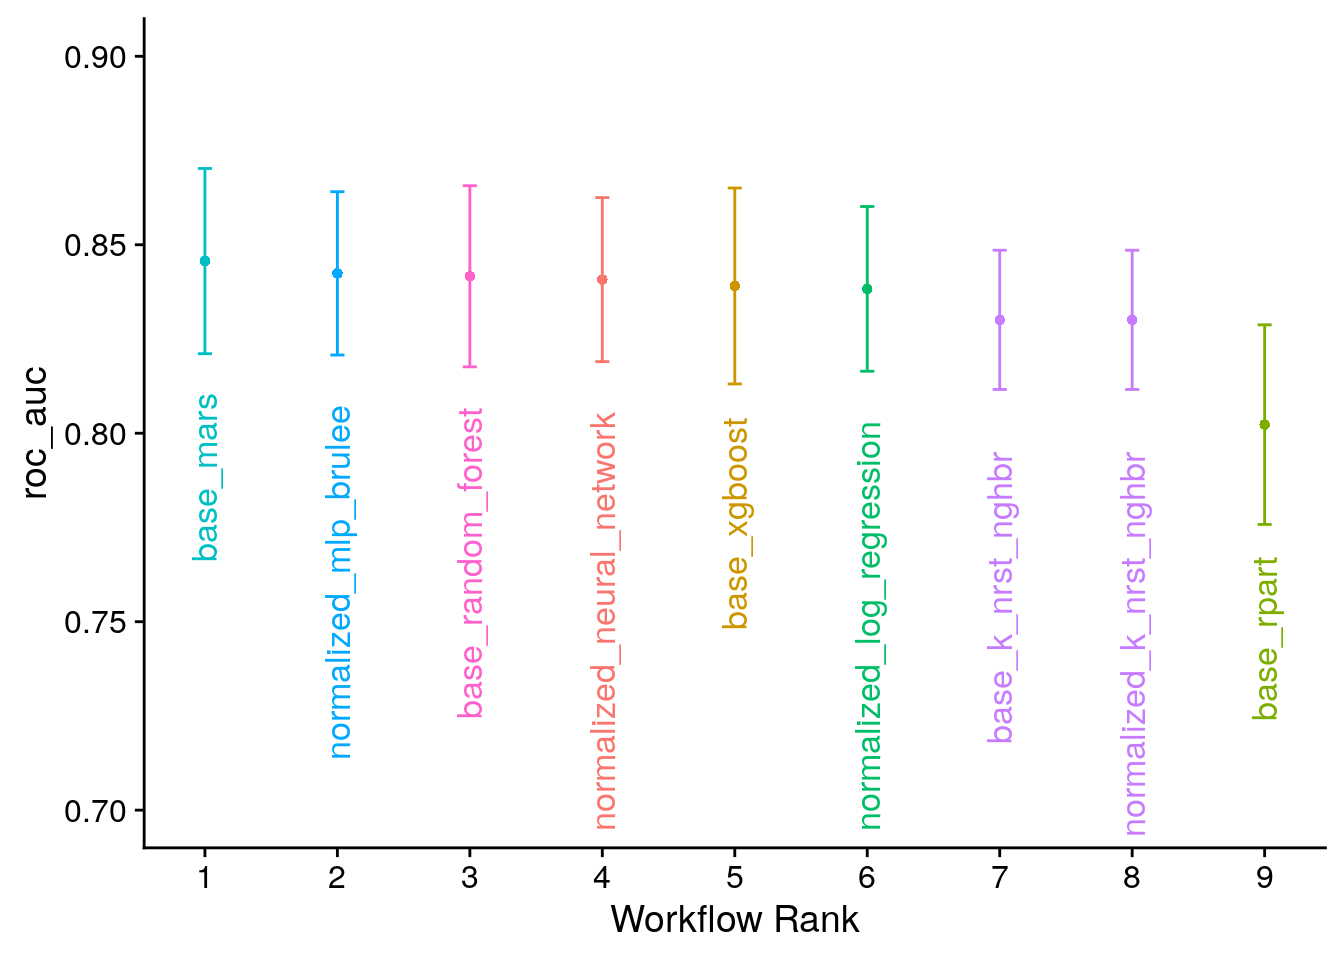
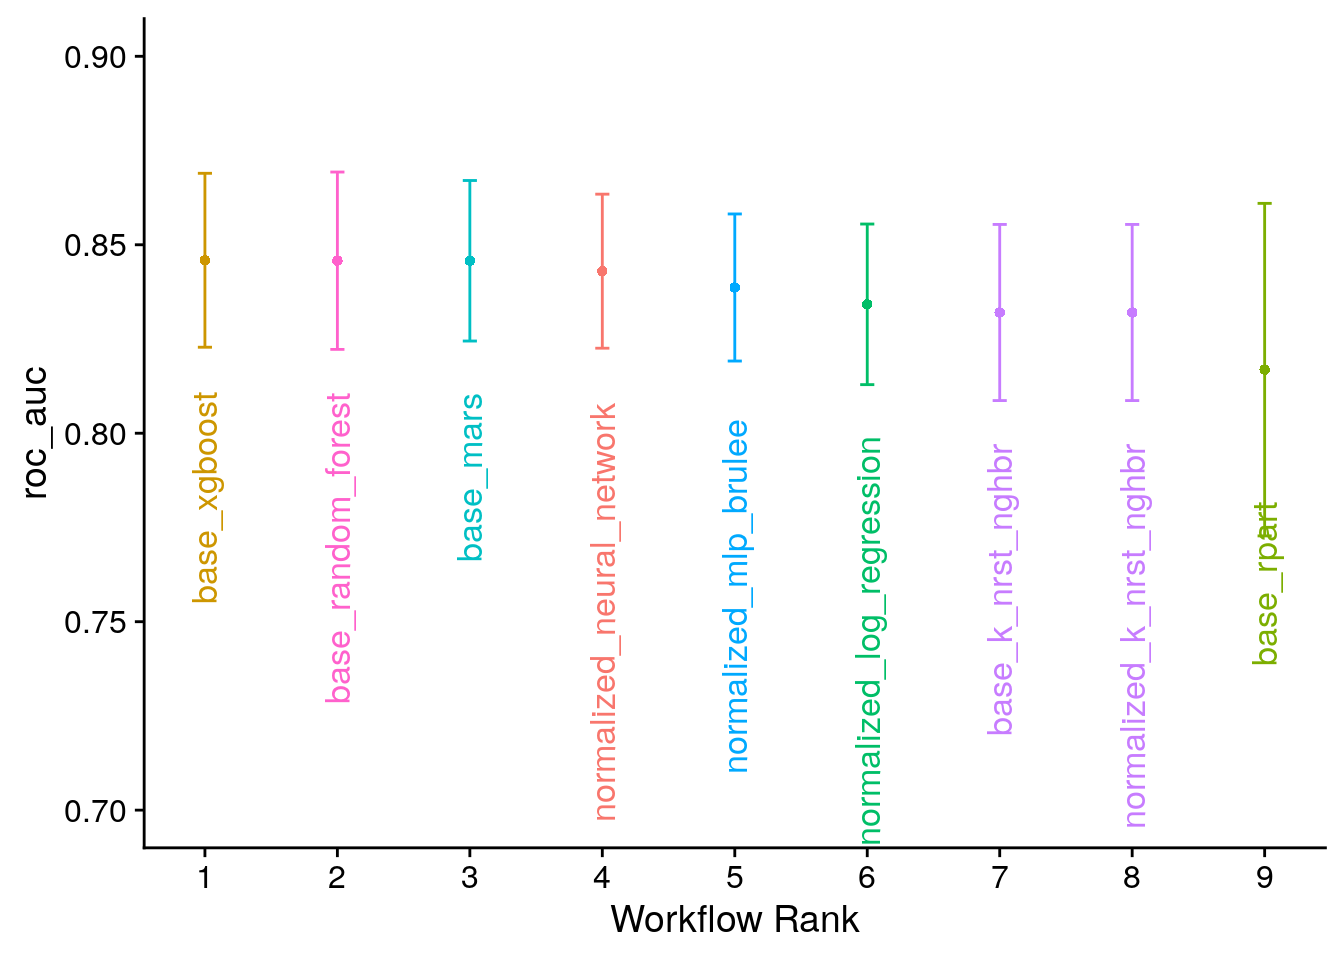
deploy: 8090718d2a788163073ff6967a6c2a0657854753

diff --git a/index.html b/index.html
@@ -134,7 +134,7 @@ window.Quarto = {
   <li><a href="#model-roc-curves" id="toc-model-roc-curves" class="nav-link" data-scroll-target="#model-roc-curves"><span class="header-section-number">7.4</span> Model ROC Curves</a></li>
   <li><a href="#models-ranked" id="toc-models-ranked" class="nav-link" data-scroll-target="#models-ranked"><span class="header-section-number">7.5</span> Models Ranked</a></li>
   <li><a href="#best-tuning-parameters-for-mars" id="toc-best-tuning-parameters-for-mars" class="nav-link" data-scroll-target="#best-tuning-parameters-for-mars"><span class="header-section-number">7.6</span> Best Tuning Parameters for MARS</a></li>
-  <li><a href="#mars-confusion-matrix" id="toc-mars-confusion-matrix" class="nav-link" data-scroll-target="#mars-confusion-matrix"><span class="header-section-number">7.7</span> MARS Confusion Matrix</a></li>
+  <li><a href="#random-forest-confusion-matrix" id="toc-random-forest-confusion-matrix" class="nav-link" data-scroll-target="#random-forest-confusion-matrix"><span class="header-section-number">7.7</span> Random Forest Confusion Matrix</a></li>
   </ul></li>
   <li><a href="#conclusion" id="toc-conclusion" class="nav-link" data-scroll-target="#conclusion"><span class="header-section-number">8</span> Conclusion</a></li>
   <li><a href="#appendix---raw-data" id="toc-appendix---raw-data" class="nav-link" data-scroll-target="#appendix---raw-data">Appendix - Raw Data</a></li>
@@ -176,8 +176,8 @@ window.Quarto = {
 <p>The workflow proceeds according to the chart below.</p>
 <div class="cell">
 <div class="cell-output-display">
-<div class="visNetwork html-widget html-fill-item" id="htmlwidget-b5eafbf948554ee8f588" style="width:100%;height:464px;"></div>
-<script type="application/json" data-for="htmlwidget-b5eafbf948554ee8f588">{"x":{"nodes":{"name":["best_model_results","downloaded_file_info","final_cm","model_results","model_test_results","pima_data","pima_data_url","pima_folds","pima_imputed","pima_raw","pima_raw_converted","pima_raw_ol_to_na","pima_split","pima_test","pima_train","plot_conf_matrix","plot_imputed_corr","plot_imputed_missing","plot_imputed_outliers","plot_model_results","plot_raw_missing","plot_raw_outliers","plot_ROC_curve","plot_tuning_grid","tbl_imputed_summary_0","tbl_imputed_summary_1","tbl_model_results","tbl_raw_summary_0","tbl_raw_summary_1","tbl_test_results","tbl_tuning_parameters"],"type":["stem","stem","stem","stem","stem","stem","stem","stem","stem","stem","stem","stem","stem","stem","stem","stem","stem","stem","stem","stem","stem","stem","stem","stem","stem","stem","stem","stem","stem","stem","stem"],"description":[null,null,null,null,null,null,null,null,null,null,null,null,null,null,null,null,null,null,null,null,null,null,null,null,null,null,null,null,null,null,null],"status":["uptodate","uptodate","uptodate","uptodate","uptodate","uptodate","uptodate","uptodate","uptodate","uptodate","uptodate","uptodate","uptodate","uptodate","uptodate","uptodate","uptodate","uptodate","uptodate","uptodate","uptodate","uptodate","uptodate","uptodate","uptodate","uptodate","uptodate","uptodate","uptodate","uptodate","uptodate"],"seconds":[0.041,0.104,0.002,1218.45,3.006,0.05,0.001,0.008,0.19,0.06900000000000001,0.007,0.005,0.01,0.001,0.002,0.044,0.054,0.04,0.02,1.428,0.15,0.128,12.257,0.102,0.011,0.014,0.913,0.015,0.016,0.001,0.041],"bytes":[250,305,228,4284540,31950176,23105,0,14395,12790,12557,12853,12763,14482,3200,10064,16865791,97026,1066428,1097419,19475553,1084074,1045226,12741512,8579046,624,633,485,636,635,301,250],"branches":[null,null,null,null,null,null,null,null,null,null,null,null,null,null,null,null,null,null,null,null,null,null,null,null,null,null,null,null,null,null,null],"label":["best_model_results","downloaded_file_info","final_cm","model_results","model_test_results","pima_data","pima_data_url","pima_folds","pima_imputed","pima_raw","pima_raw_converted","pima_raw_ol_to_na","pima_split","pima_test","pima_train","plot_conf_matrix","plot_imputed_corr","plot_imputed_missing","plot_imputed_outliers","plot_model_results","plot_raw_missing","plot_raw_outliers","plot_ROC_curve","plot_tuning_grid","tbl_imputed_summary_0","tbl_imputed_summary_1","tbl_model_results","tbl_raw_summary_0","tbl_raw_summary_1","tbl_test_results","tbl_tuning_parameters"],"color":["#354823","#354823","#354823","#354823","#354823","#354823","#354823","#354823","#354823","#354823","#354823","#354823","#354823","#354823","#354823","#354823","#354823","#354823","#354823","#354823","#354823","#354823","#354823","#354823","#354823","#354823","#354823","#354823","#354823","#354823","#354823"],"id":["best_model_results","downloaded_file_info","final_cm","model_results","model_test_results","pima_data","pima_data_url","pima_folds","pima_imputed","pima_raw","pima_raw_converted","pima_raw_ol_to_na","pima_split","pima_test","pima_train","plot_conf_matrix","plot_imputed_corr","plot_imputed_missing","plot_imputed_outliers","plot_model_results","plot_raw_missing","plot_raw_outliers","plot_ROC_curve","plot_tuning_grid","tbl_imputed_summary_0","tbl_imputed_summary_1","tbl_model_results","tbl_raw_summary_0","tbl_raw_summary_1","tbl_test_results","tbl_tuning_parameters"],"level":[11,3,13,10,12,2,1,9,6,3,4,5,7,8,8,14,7,7,7,11,5,5,11,11,7,7,11,5,5,13,11],"shape":["dot","dot","dot","dot","dot","dot","dot","dot","dot","dot","dot","dot","dot","dot","dot","dot","dot","dot","dot","dot","dot","dot","dot","dot","dot","dot","dot","dot","dot","dot","dot"]},"edges":{"from":["model_results","pima_data","model_test_results","pima_train","pima_folds","best_model_results","model_results","pima_split","pima_data_url","pima_train","pima_raw_ol_to_na","pima_data","pima_raw","pima_raw_converted","pima_imputed","pima_split","pima_split","final_cm","pima_imputed","pima_imputed","pima_imputed","model_results","pima_raw_converted","pima_raw_converted","model_results","model_results","pima_imputed","pima_imputed","model_results","pima_raw_converted","pima_raw_converted","model_test_results","model_results"],"to":["best_model_results","downloaded_file_info","final_cm","model_results","model_results","model_test_results","model_test_results","model_test_results","pima_data","pima_folds","pima_imputed","pima_raw","pima_raw_converted","pima_raw_ol_to_na","pima_split","pima_test","pima_train","plot_conf_matrix","plot_imputed_corr","plot_imputed_missing","plot_imputed_outliers","plot_model_results","plot_raw_missing","plot_raw_outliers","plot_ROC_curve","plot_tuning_grid","tbl_imputed_summary_0","tbl_imputed_summary_1","tbl_model_results","tbl_raw_summary_0","tbl_raw_summary_1","tbl_test_results","tbl_tuning_parameters"],"color":["#354823","#354823","#354823","#354823","#354823","#354823","#354823","#354823","#354823","#354823","#354823","#354823","#354823","#354823","#354823","#354823","#354823","#354823","#354823","#354823","#354823","#354823","#354823","#354823","#354823","#354823","#354823","#354823","#354823","#354823","#354823","#354823","#354823"],"arrows":["to","to","to","to","to","to","to","to","to","to","to","to","to","to","to","to","to","to","to","to","to","to","to","to","to","to","to","to","to","to","to","to","to"]},"nodesToDataframe":true,"edgesToDataframe":true,"options":{"width":"100%","height":"100%","nodes":{"shape":"dot","physics":false},"manipulation":{"enabled":false},"edges":{"smooth":{"type":"cubicBezier","forceDirection":"horizontal"}},"physics":{"stabilization":false},"interaction":{"zoomSpeed":0.5},"layout":{"hierarchical":{"enabled":true,"levelSeparation":150,"direction":"LR"}}},"groups":null,"width":null,"height":null,"idselection":{"enabled":false,"style":"width: 150px; height: 26px","useLabels":true,"main":"Select by id"},"byselection":{"enabled":false,"style":"width: 150px; height: 26px","multiple":false,"hideColor":"rgba(200,200,200,0.5)","highlight":false},"main":{"text":"","style":"font-family:Georgia, Times New Roman, Times, serif;font-weight:bold;font-size:20px;text-align:center;"},"submain":null,"footer":null,"background":"rgba(0, 0, 0, 0)","highlight":{"enabled":true,"hoverNearest":false,"degree":{"from":1,"to":1},"algorithm":"hierarchical","hideColor":"rgba(200,200,200,0.5)","labelOnly":true},"collapse":{"enabled":true,"fit":false,"resetHighlight":true,"clusterOptions":null,"keepCoord":true,"labelSuffix":"(cluster)"},"legend":{"width":0.2,"useGroups":false,"position":"right","ncol":1,"stepX":100,"stepY":100,"zoom":true,"nodes":{"label":["Up to date","Stem"],"color":["#354823","#899DA4"],"shape":["dot","dot"]},"nodesToDataframe":true},"tooltipStay":300,"tooltipStyle":"position: fixed;visibility:hidden;padding: 5px;white-space: nowrap;font-family: verdana;font-size:14px;font-color:#000000;background-color: #f5f4ed;-moz-border-radius: 3px;-webkit-border-radius: 3px;border-radius: 3px;border: 1px solid #808074;box-shadow: 3px 3px 10px rgba(0, 0, 0, 0.2);"},"evals":[],"jsHooks":[]}</script>
+<div class="visNetwork html-widget html-fill-item" id="htmlwidget-c42cadae009d3f9c4611" style="width:100%;height:464px;"></div>
+<script type="application/json" data-for="htmlwidget-c42cadae009d3f9c4611">{"x":{"nodes":{"name":["best_model_results","data_to_model","downloaded_file_info","final_cm","model_results","model_test_results","pima_data","pima_data_url","pima_folds","pima_imputed","pima_raw","pima_raw_converted","pima_raw_ol_to_na","pima_split","pima_test","pima_train","plot_conf_matrix","plot_imputed_corr","plot_imputed_missing","plot_imputed_outliers","plot_model_results","plot_raw_missing","plot_raw_outliers","plot_ROC_curve","plot_tuning_grid","tbl_imputed_summary_0","tbl_imputed_summary_1","tbl_model_results","tbl_raw_summary_0","tbl_raw_summary_1","tbl_test_results","tbl_tuning_parameters"],"type":["stem","stem","stem","stem","stem","stem","stem","stem","stem","stem","stem","stem","stem","stem","stem","stem","stem","stem","stem","stem","stem","stem","stem","stem","stem","stem","stem","stem","stem","stem","stem","stem"],"description":[null,null,null,null,null,null,null,null,null,null,null,null,null,null,null,null,null,null,null,null,null,null,null,null,null,null,null,null,null,null,null,null],"status":["uptodate","uptodate","uptodate","uptodate","uptodate","uptodate","uptodate","uptodate","uptodate","uptodate","uptodate","uptodate","uptodate","uptodate","uptodate","uptodate","uptodate","uptodate","uptodate","uptodate","uptodate","uptodate","uptodate","uptodate","uptodate","uptodate","uptodate","uptodate","uptodate","uptodate","uptodate","uptodate"],"seconds":[0.06,0.003,0.103,0.003,1519.394,0.8129999999999999,0.12,0.001,0.008,0.189,0.06900000000000001,0.007,0.005,0.014,0.001,0.001,0.043,0.038,0.054,0.021,1.611,0.147,0.123,13.565,0.08599999999999999,0.011,0.012,0.956,0.015,0.016,0.001,0.046],"bytes":[229,12819,304,230,4601912,22747532,23105,0,14402,12790,12557,12853,12763,14452,3354,10104,12336306,97026,1066393,1097419,10676886,1084074,1045034,13888112,18401002,624,633,486,636,635,299,229],"branches":[null,null,null,null,null,null,null,null,null,null,null,null,null,null,null,null,null,null,null,null,null,null,null,null,null,null,null,null,null,null,null,null],"label":["best_model_results","data_to_model","downloaded_file_info","final_cm","model_results","model_test_results","pima_data","pima_data_url","pima_folds","pima_imputed","pima_raw","pima_raw_converted","pima_raw_ol_to_na","pima_split","pima_test","pima_train","plot_conf_matrix","plot_imputed_corr","plot_imputed_missing","plot_imputed_outliers","plot_model_results","plot_raw_missing","plot_raw_outliers","plot_ROC_curve","plot_tuning_grid","tbl_imputed_summary_0","tbl_imputed_summary_1","tbl_model_results","tbl_raw_summary_0","tbl_raw_summary_1","tbl_test_results","tbl_tuning_parameters"],"color":["#354823","#354823","#354823","#354823","#354823","#354823","#354823","#354823","#354823","#354823","#354823","#354823","#354823","#354823","#354823","#354823","#354823","#354823","#354823","#354823","#354823","#354823","#354823","#354823","#354823","#354823","#354823","#354823","#354823","#354823","#354823","#354823"],"id":["best_model_results","data_to_model","downloaded_file_info","final_cm","model_results","model_test_results","pima_data","pima_data_url","pima_folds","pima_imputed","pima_raw","pima_raw_converted","pima_raw_ol_to_na","pima_split","pima_test","pima_train","plot_conf_matrix","plot_imputed_corr","plot_imputed_missing","plot_imputed_outliers","plot_model_results","plot_raw_missing","plot_raw_outliers","plot_ROC_curve","plot_tuning_grid","tbl_imputed_summary_0","tbl_imputed_summary_1","tbl_model_results","tbl_raw_summary_0","tbl_raw_summary_1","tbl_test_results","tbl_tuning_parameters"],"level":[10,5,3,12,9,11,2,1,8,6,3,4,5,6,7,7,13,7,7,7,10,5,5,10,10,7,7,10,5,5,12,10],"shape":["dot","dot","dot","dot","dot","dot","dot","dot","dot","dot","dot","dot","dot","dot","dot","dot","dot","dot","dot","dot","dot","dot","dot","dot","dot","dot","dot","dot","dot","dot","dot","dot"]},"edges":{"from":["model_results","pima_raw_converted","pima_data","model_test_results","pima_train","pima_folds","best_model_results","pima_split","model_results","pima_data_url","pima_train","pima_raw_ol_to_na","pima_data","pima_raw","pima_raw_converted","data_to_model","pima_split","pima_split","final_cm","pima_imputed","pima_imputed","pima_imputed","model_results","pima_raw_converted","pima_raw_converted","model_results","model_results","pima_imputed","pima_imputed","model_results","pima_raw_converted","pima_raw_converted","model_test_results","model_results"],"to":["best_model_results","data_to_model","downloaded_file_info","final_cm","model_results","model_results","model_test_results","model_test_results","model_test_results","pima_data","pima_folds","pima_imputed","pima_raw","pima_raw_converted","pima_raw_ol_to_na","pima_split","pima_test","pima_train","plot_conf_matrix","plot_imputed_corr","plot_imputed_missing","plot_imputed_outliers","plot_model_results","plot_raw_missing","plot_raw_outliers","plot_ROC_curve","plot_tuning_grid","tbl_imputed_summary_0","tbl_imputed_summary_1","tbl_model_results","tbl_raw_summary_0","tbl_raw_summary_1","tbl_test_results","tbl_tuning_parameters"],"color":["#354823","#354823","#354823","#354823","#354823","#354823","#354823","#354823","#354823","#354823","#354823","#354823","#354823","#354823","#354823","#354823","#354823","#354823","#354823","#354823","#354823","#354823","#354823","#354823","#354823","#354823","#354823","#354823","#354823","#354823","#354823","#354823","#354823","#354823"],"arrows":["to","to","to","to","to","to","to","to","to","to","to","to","to","to","to","to","to","to","to","to","to","to","to","to","to","to","to","to","to","to","to","to","to","to"]},"nodesToDataframe":true,"edgesToDataframe":true,"options":{"width":"100%","height":"100%","nodes":{"shape":"dot","physics":false},"manipulation":{"enabled":false},"edges":{"smooth":{"type":"cubicBezier","forceDirection":"horizontal"}},"physics":{"stabilization":false},"interaction":{"zoomSpeed":0.5},"layout":{"hierarchical":{"enabled":true,"levelSeparation":150,"direction":"LR"}}},"groups":null,"width":null,"height":null,"idselection":{"enabled":false,"style":"width: 150px; height: 26px","useLabels":true,"main":"Select by id"},"byselection":{"enabled":false,"style":"width: 150px; height: 26px","multiple":false,"hideColor":"rgba(200,200,200,0.5)","highlight":false},"main":{"text":"","style":"font-family:Georgia, Times New Roman, Times, serif;font-weight:bold;font-size:20px;text-align:center;"},"submain":null,"footer":null,"background":"rgba(0, 0, 0, 0)","highlight":{"enabled":true,"hoverNearest":false,"degree":{"from":1,"to":1},"algorithm":"hierarchical","hideColor":"rgba(200,200,200,0.5)","labelOnly":true},"collapse":{"enabled":true,"fit":false,"resetHighlight":true,"clusterOptions":null,"keepCoord":true,"labelSuffix":"(cluster)"},"legend":{"width":0.2,"useGroups":false,"position":"right","ncol":1,"stepX":100,"stepY":100,"zoom":true,"nodes":{"label":["Up to date","Stem"],"color":["#354823","#899DA4"],"shape":["dot","dot"]},"nodesToDataframe":true},"tooltipStay":300,"tooltipStyle":"position: fixed;visibility:hidden;padding: 5px;white-space: nowrap;font-family: verdana;font-size:14px;font-color:#000000;background-color: #f5f4ed;-moz-border-radius: 3px;-webkit-border-radius: 3px;border-radius: 3px;border: 1px solid #808074;box-shadow: 3px 3px 10px rgba(0, 0, 0, 0.2);"},"evals":[],"jsHooks":[]}</script>
 </div>
 </div>
 </section>
@@ -210,15 +210,15 @@ window.Quarto = {
 </tr>
 <tr class="even">
 <td style="text-align: left;">mtime</td>
-<td style="text-align: left;">2025-05-20 10:53:13</td>
+<td style="text-align: left;">2025-05-20 12:27:34</td>
 </tr>
 <tr class="odd">
 <td style="text-align: left;">ctime</td>
-<td style="text-align: left;">2025-05-20 10:53:13</td>
+<td style="text-align: left;">2025-05-20 12:27:34</td>
 </tr>
 <tr class="even">
 <td style="text-align: left;">atime</td>
-<td style="text-align: left;">2025-05-20 10:53:13</td>
+<td style="text-align: left;">2025-05-20 12:27:34</td>
 </tr>
 <tr class="odd">
 <td style="text-align: left;">uid</td>
@@ -902,18 +902,18 @@ p = \frac{1}{1 + \exp(-z)}
 <table class="lightable-classic table table-sm table-striped small" data-quarto-postprocess="true">
 <thead>
 <tr class="header">
-<th style="text-align: right;" data-quarto-table-cell-role="th">num_terms</th>
-<th style="text-align: right;" data-quarto-table-cell-role="th">prod_degree</th>
-<th style="text-align: left;" data-quarto-table-cell-role="th">prune_method</th>
+<th style="text-align: right;" data-quarto-table-cell-role="th">mtry</th>
+<th style="text-align: right;" data-quarto-table-cell-role="th">trees</th>
+<th style="text-align: right;" data-quarto-table-cell-role="th">min_n</th>
 <th style="text-align: left;" data-quarto-table-cell-role="th">.config</th>
 </tr>
 </thead>
 <tbody>
 <tr class="odd">
-<td style="text-align: right;">4</td>
-<td style="text-align: right;">2</td>
-<td style="text-align: left;">forward</td>
-<td style="text-align: left;">Preprocessor1_Model18</td>
+<td style="text-align: right;">6</td>
+<td style="text-align: right;">1500</td>
+<td style="text-align: right;">38</td>
+<td style="text-align: left;">Preprocessor1_Model19</td>
 </tr>
 </tbody>
 </table>
@@ -969,66 +969,66 @@ p = \frac{1}{1 + \exp(-z)}
 <tbody>
 <tr class="odd">
 <td style="text-align: right;">1</td>
-<td style="text-align: left;">base_mars</td>
-<td style="text-align: left;">Preprocessor1_Model18</td>
+<td style="text-align: left;">base_xgboost</td>
+<td style="text-align: left;">Preprocessor1_Model14</td>
 <td style="text-align: left;">roc_auc</td>
-<td style="text-align: right;">0.8456710</td>
+<td style="text-align: right;">0.8458820</td>
 </tr>
 <tr class="even">
 <td style="text-align: right;">2</td>
-<td style="text-align: left;">normalized_mlp_brulee</td>
-<td style="text-align: left;">Preprocessor1_Model12</td>
+<td style="text-align: left;">base_random_forest</td>
+<td style="text-align: left;">Preprocessor1_Model19</td>
 <td style="text-align: left;">roc_auc</td>
-<td style="text-align: right;">0.8424080</td>
+<td style="text-align: right;">0.8457684</td>
 </tr>
 <tr class="odd">
 <td style="text-align: right;">3</td>
-<td style="text-align: left;">base_random_forest</td>
-<td style="text-align: left;">Preprocessor1_Model11</td>
+<td style="text-align: left;">base_mars</td>
+<td style="text-align: left;">Preprocessor1_Model19</td>
 <td style="text-align: left;">roc_auc</td>
-<td style="text-align: right;">0.8416342</td>
+<td style="text-align: right;">0.8457522</td>
 </tr>
 <tr class="even">
 <td style="text-align: right;">4</td>
 <td style="text-align: left;">normalized_neural_network</td>
-<td style="text-align: left;">Preprocessor1_Model16</td>
+<td style="text-align: left;">Preprocessor1_Model09</td>
 <td style="text-align: left;">roc_auc</td>
-<td style="text-align: right;">0.8407522</td>
+<td style="text-align: right;">0.8429870</td>
 </tr>
 <tr class="odd">
 <td style="text-align: right;">5</td>
-<td style="text-align: left;">base_xgboost</td>
-<td style="text-align: left;">Preprocessor1_Model06</td>
+<td style="text-align: left;">normalized_mlp_brulee</td>
+<td style="text-align: left;">Preprocessor1_Model18</td>
 <td style="text-align: left;">roc_auc</td>
-<td style="text-align: right;">0.8390639</td>
+<td style="text-align: right;">0.8386580</td>
 </tr>
 <tr class="even">
 <td style="text-align: right;">6</td>
 <td style="text-align: left;">normalized_log_regression</td>
-<td style="text-align: left;">Preprocessor1_Model04</td>
+<td style="text-align: left;">Preprocessor1_Model18</td>
 <td style="text-align: left;">roc_auc</td>
-<td style="text-align: right;">0.8382955</td>
+<td style="text-align: right;">0.8341937</td>
 </tr>
 <tr class="odd">
 <td style="text-align: right;">7</td>
 <td style="text-align: left;">base_k_nrst_nghbr</td>
-<td style="text-align: left;">Preprocessor1_Model14</td>
+<td style="text-align: left;">Preprocessor1_Model11</td>
 <td style="text-align: left;">roc_auc</td>
-<td style="text-align: right;">0.8300812</td>
+<td style="text-align: right;">0.8320292</td>
 </tr>
 <tr class="even">
 <td style="text-align: right;">8</td>
 <td style="text-align: left;">normalized_k_nrst_nghbr</td>
-<td style="text-align: left;">Preprocessor1_Model14</td>
+<td style="text-align: left;">Preprocessor1_Model11</td>
 <td style="text-align: left;">roc_auc</td>
-<td style="text-align: right;">0.8300812</td>
+<td style="text-align: right;">0.8320292</td>
 </tr>
 <tr class="odd">
 <td style="text-align: right;">9</td>
 <td style="text-align: left;">base_rpart</td>
-<td style="text-align: left;">Preprocessor1_Model15</td>
+<td style="text-align: left;">Preprocessor1_Model14</td>
 <td style="text-align: left;">roc_auc</td>
-<td style="text-align: right;">0.8022781</td>
+<td style="text-align: right;">0.8168669</td>
 </tr>
 </tbody>
 </table>
@@ -1046,18 +1046,18 @@ p = \frac{1}{1 + \exp(-z)}
 <table class="lightable-classic table table-sm table-striped small" data-quarto-postprocess="true">
 <thead>
 <tr class="header">
-<th style="text-align: right;" data-quarto-table-cell-role="th">num_terms</th>
-<th style="text-align: right;" data-quarto-table-cell-role="th">prod_degree</th>
-<th style="text-align: left;" data-quarto-table-cell-role="th">prune_method</th>
+<th style="text-align: right;" data-quarto-table-cell-role="th">mtry</th>
+<th style="text-align: right;" data-quarto-table-cell-role="th">trees</th>
+<th style="text-align: right;" data-quarto-table-cell-role="th">min_n</th>
 <th style="text-align: left;" data-quarto-table-cell-role="th">.config</th>
 </tr>
 </thead>
 <tbody>
 <tr class="odd">
-<td style="text-align: right;">4</td>
-<td style="text-align: right;">2</td>
-<td style="text-align: left;">forward</td>
-<td style="text-align: left;">Preprocessor1_Model18</td>
+<td style="text-align: right;">6</td>
+<td style="text-align: right;">1500</td>
+<td style="text-align: right;">38</td>
+<td style="text-align: left;">Preprocessor1_Model19</td>
 </tr>
 </tbody>
 </table>
@@ -1067,8 +1067,8 @@ p = \frac{1}{1 + \exp(-z)}
 </div>
 </div>
 </section>
-<section id="mars-confusion-matrix" class="level2" data-number="7.7">
-<h2 data-number="7.7" class="anchored" data-anchor-id="mars-confusion-matrix"><span class="header-section-number">7.7</span> MARS Confusion Matrix</h2>
+<section id="random-forest-confusion-matrix" class="level2" data-number="7.7">
+<h2 data-number="7.7" class="anchored" data-anchor-id="random-forest-confusion-matrix"><span class="header-section-number">7.7</span> Random Forest Confusion Matrix</h2>
 <div class="cell">
 <div class="cell-output-display">
 <div>
@@ -1083,7 +1083,7 @@ p = \frac{1}{1 + \exp(-z)}
 <section id="conclusion" class="level1" data-number="8">
 <h1 data-number="8"><span class="header-section-number">8</span> Conclusion</h1>
 <p>The purpose of this report was to create a reproducible pipeline such that it could be recreated. However, one note is that the results from the ML models were poor: the false negatives are way too high, in my opinion. In the real world, a number of people would have been told that they did not have diabetes when they in fact did. This would have to be addressed in the future modeling and hopefully the overall accuracy, both for the positives and negatives, would increase.</p>
-<p><em>Report generated at 2025-05-20 11:14:41.840713</em></p>
+<p><em>Report generated at 2025-05-20 12:54:05.12667</em></p>
 </section>
 <section id="appendix---raw-data" class="level1 unnumbered">
 <h1 class="unnumbered">Appendix - Raw Data</h1>
